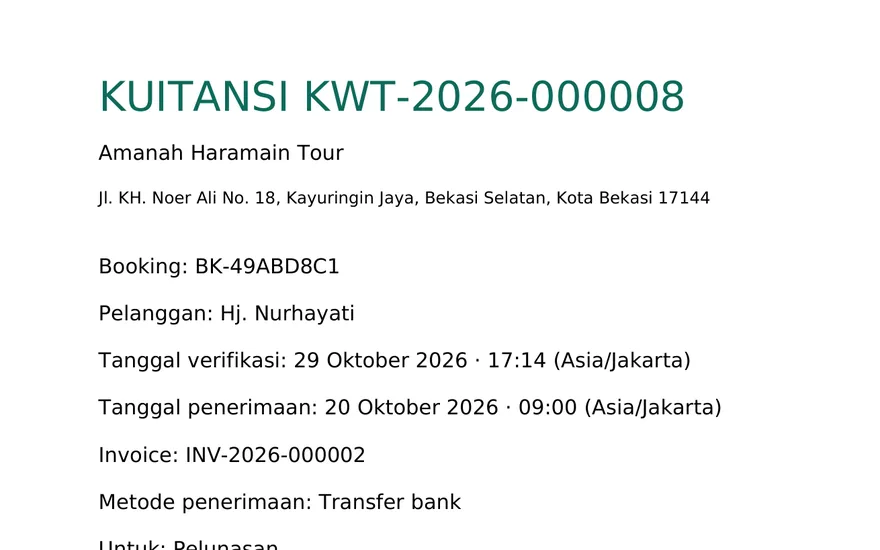
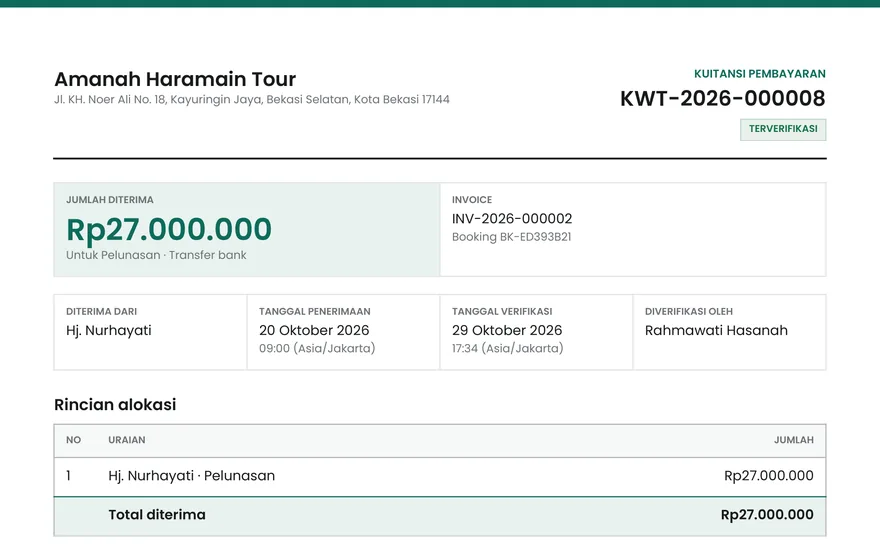
feat(marketing): gambar kuitansi dari desain PDF baru

diff --git a/infra/marketing/capture.py b/infra/marketing/capture.py
@@ -107,6 +107,9 @@ with sync_playwright() as p:
     payments = pg.request.get(API + "/payments").json()
     pick = next(r for r in payments.get("results", payments) if r.get("kind") == "BALANCE" and r.get("receipt"))
     page = fitz.open(stream=pg.request.get(f"{API}/receipts/{pick['receipt']['id']}/pdf").body(), filetype="pdf")[0]
-    pix = page.get_pixmap(dpi=220, clip=fitz.Rect(0, 20, page.rect.width * 0.72, 20 + page.rect.width * 0.72 * RATIO))
+    # Kop sampai tabel "Total diterima" (364 pt), 16:10 di tengah halaman
+    height = 364
+    left = (page.rect.width - height / RATIO) / 2
+    pix = page.get_pixmap(dpi=220, clip=fitz.Rect(left, 0, left + height / RATIO, height))
     save("kuitansi", pix.tobytes("png"))
     b.close()
